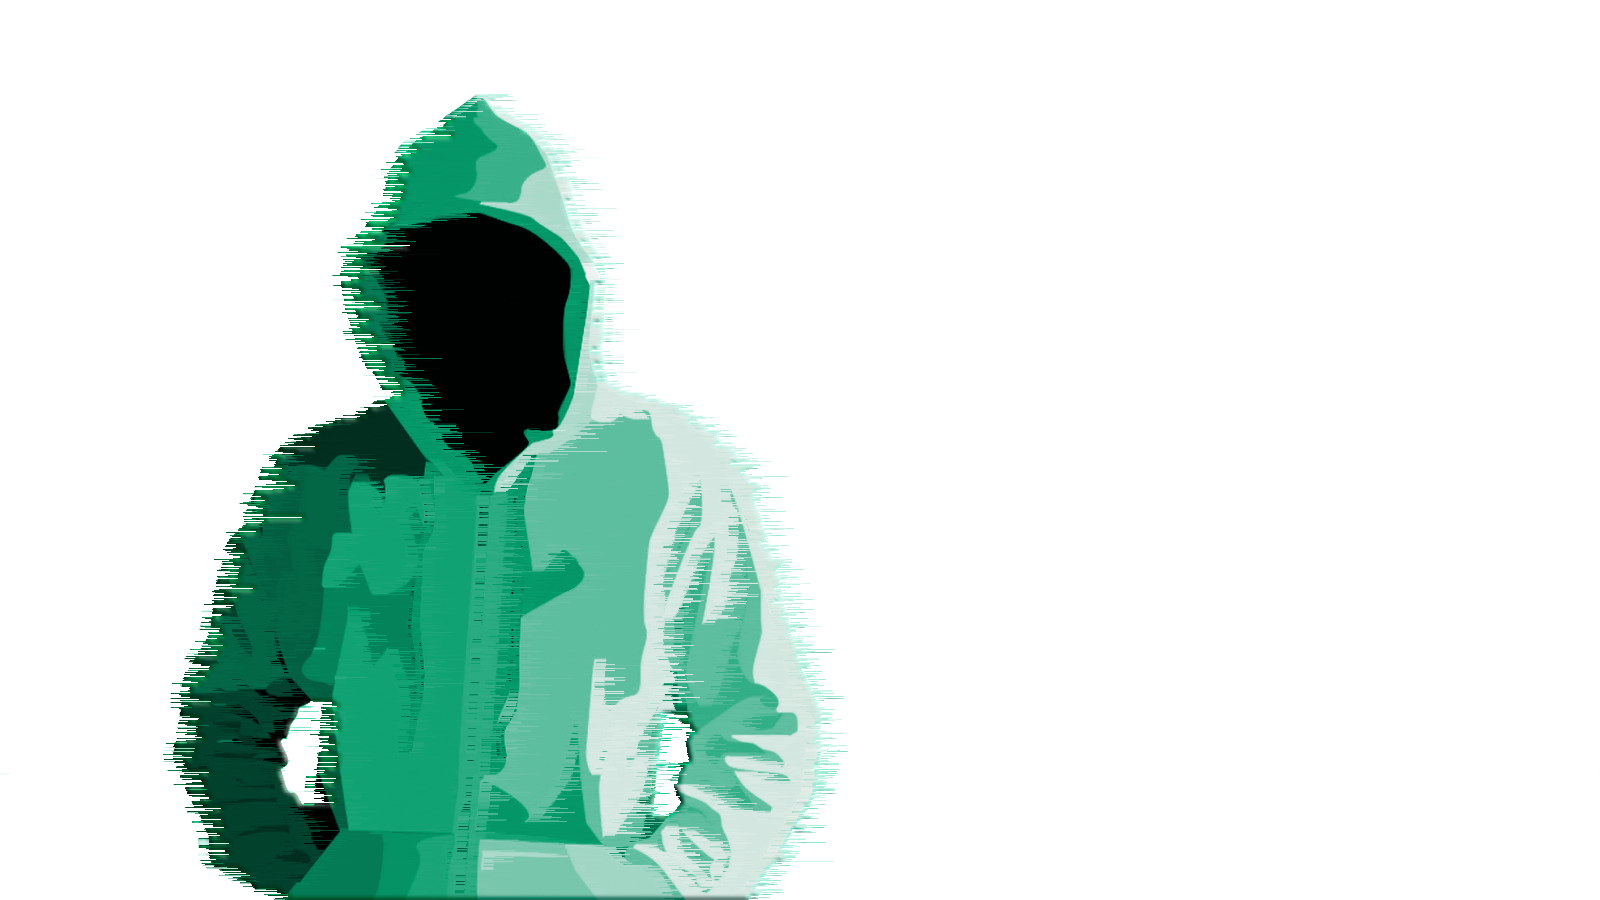
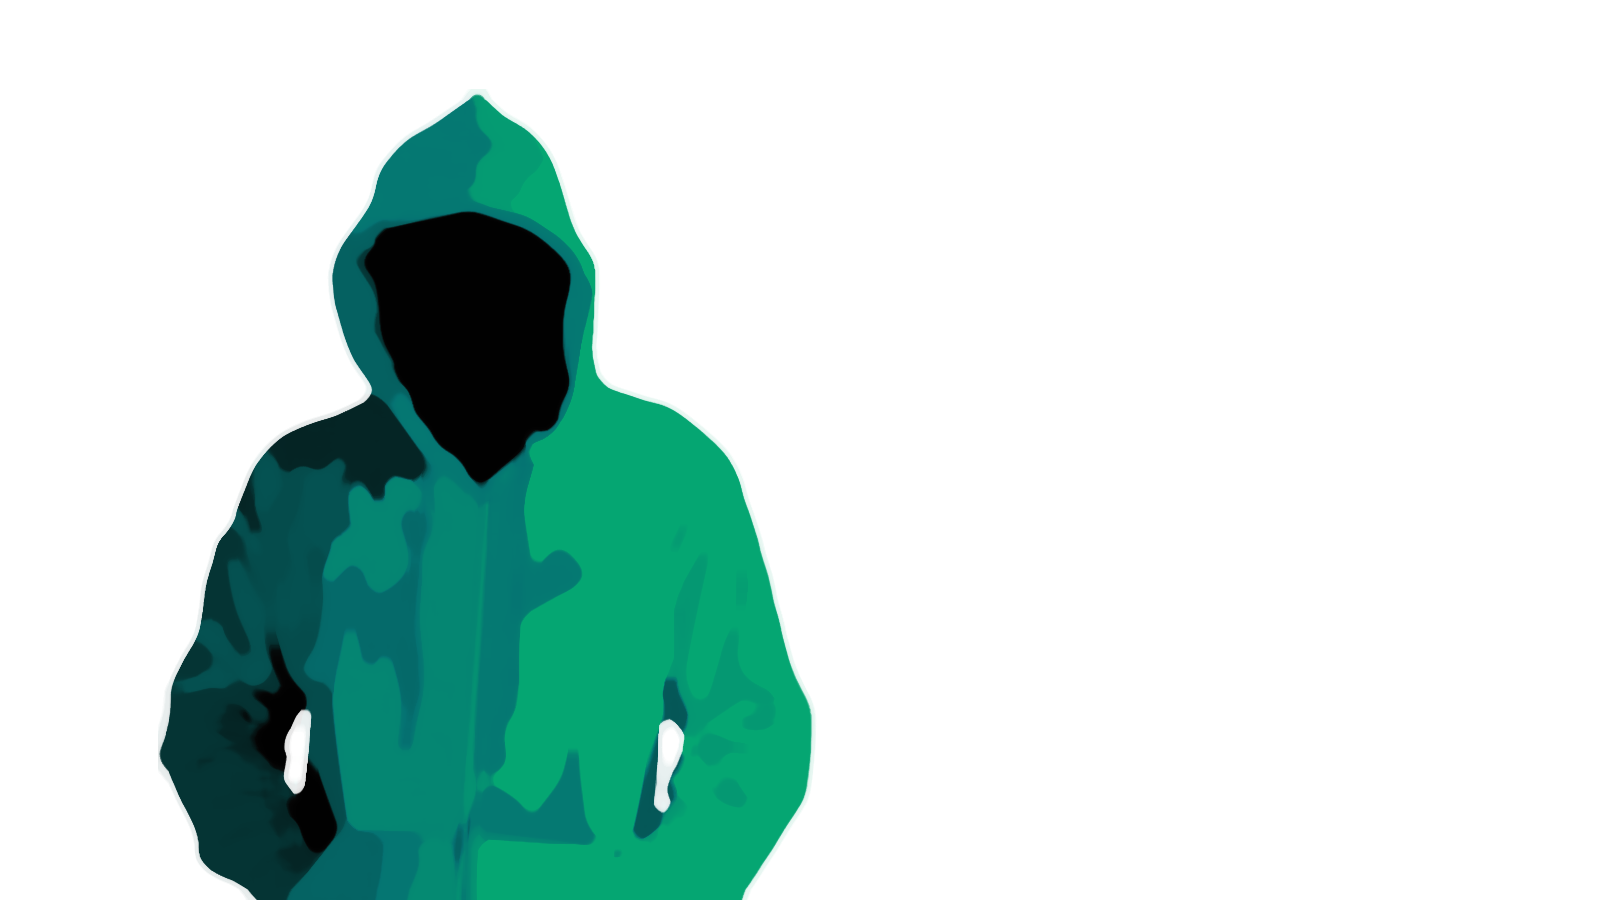
cleanup

Changed region(s): [[0.0938, 0.0933, 0.5312, 1.0]]

diff --git a/assets/scss/pages/_about.scss b/assets/scss/pages/_about.scss
@@ -4,16 +4,9 @@
   position: relative;
   z-index: -1;
 
-  &::before {
-    z-index: 1;
-    content: "";
+  img {
+    filter: brightness(90%) contrast(100%) saturate(145%);
     position: absolute;
-    top: 0;
-    right: 0;
-    width: 100%;
-    height: 100%;
-    opacity: 0.6;
-    background-image: url("~assets/images/about-bg.jpg");
-    filter: brightness(90%) contrast(150%) saturate(145%);
+    bottom: 0;
   }
 }

diff --git a/assets/scss/components/_gradient.scss b/assets/scss/components/_gradient.scss
@@ -7,10 +7,19 @@
   );
 }
 
-.dark-break {
+.dark-break-primary {
   background: rgb(44, 46, 59);
   background: linear-gradient(
     130deg,
+    rgba(44, 46, 59, 1) 49%,
+    rgba(41, 42, 52, 1) 49%
+  );
+}
+
+.dark-break-secondary {
+  background: rgb(44, 46, 59);
+  background: linear-gradient(
+    210deg,
     rgba(44, 46, 59, 1) 49%,
     rgba(41, 42, 52, 1) 49%
   );

diff --git a/pages/about.vue b/pages/about.vue
@@ -1,6 +1,7 @@
 <template>
-  <div id="about" class="w-full h-full bg-primary-dark">
+  <div id="about" class="w-full h-full dark-break-secondary">
     <div class="container mx-auto h-screen flex items-center justify-center flex-col">
+      <img src="~/assets/images/about-bg.jpg" alt="">
     </div>
   </div>
 </template>

diff --git a/pages/index.vue b/pages/index.vue
@@ -1,5 +1,5 @@
 <template>
-  <div class="w-full h-full dark-break">
+  <div class="w-full h-full dark-break-primary">
     <div class="container mx-auto h-screen flex items-center justify-center flex-col pt-6 md:pt-0">
       <transition name="up-slide" mode="out-in" appear>
         <h1 class="text-4xl md:text-7xl mb-4">
